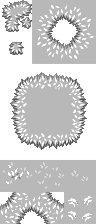
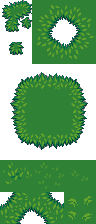
Try to colorize like the GIMP (using HSL)

diff --git a/test/colorize2.html b/test/colorize2.html
@@ -1,0 +1,130 @@
+<!DOCTYPE HTML>
+<html>
+  <head>
+    <title>Colorize Images Like GIMP</title>
+    <meta content="text/html;charset=utf-8" http-equiv="Content-Type">
+    <link rel="stylesheet" href="../styles.css">
+  </head>
+  <body>
+    <canvas id="canvas" width="600px" height="224px" style="float: left"></canvas>
+    <input id="color" type="color" value="#0000ff">
+  
+    <script type="module">
+
+      import { ImageResource } from '../src/ImageResource.js';
+
+      const grass = new ImageResource('../images/terrain/grass.png');
+
+      grass.ready.then(() => {
+        const image = grass.image;
+
+        const canvas = document.getElementById('canvas');
+        canvas.width = image.width;
+        canvas.height = image.height;
+        const context = canvas.getContext('2d');
+        context.drawImage(image, 0, 0);
+
+        
+        // const pixelBuffer = new Uint32Array(imageData.data.buffer);
+
+        // const counts = new Map();
+        // pixelBuffer.forEach(color => counts.set(color, (counts.get(color) ?? 0) + 1));
+
+        // const sorted = Array.from(counts.keys()).sort((a, b) => counts.get(b) - counts.get(a));
+        // const mostCommon = sorted.find(color => color !== 0);
+
+        // pixelBuffer.forEach((color, index, array) => {
+        //   if (color == mostCommon) {
+        //     array[index] = 0xFFFF0000;
+        //   }
+        // });
+        // context.putImageData(imageData, 0, 0);
+
+        
+
+        // let [r, g, b] = hexToRgb('#ff1111');
+        // let [h, s, l] = rgb2hsl(r, g, b);
+
+        colorize(canvas, 0.5 * 360, 0.5, 0);
+
+        // document.getElementById('color').value = intToHex(mostCommon);
+
+        // const [r, g, b] = intToRgbArray(mostCommon);
+
+        // const hsl = rgb2hsl(r, g, b);
+        // const rgb = hsl2rgb(hsl[0], hsl[1], hsl[2])
+        
+      });
+
+      function colorize(canvas, h, s, l) {
+        const ctx = canvas.getContext('2d');
+        const imageData = ctx.getImageData(0, 0, canvas.width, canvas.height);
+        const data = imageData.data;
+
+        const LUM_RED =   0.22248840;
+        const LUM_GREEN = 0.71690369;
+        const LUM_BLUE =  0.06060791;
+
+        let index = 0;
+        for (let r = 0; r < canvas.height; r ++) {
+          for (let c = 0; c < canvas.width; c ++) {
+            let r = data[index] / 255;
+            let g = data[index + 1] / 255;
+            let b = data[index + 2] / 255;
+            let a = data[index + 3];
+
+            let lum = r * LUM_RED + g * LUM_GREEN + b * LUM_BLUE;
+
+            // if (lightness > 0) {
+            //   lum = lum * (1.0 - lightness);
+            //   lum += 1.0 - (1.0 - lightness);
+            // }
+            // else if (lightness < 0) {
+            //   lum = lum * (lightness + 1.0);
+            // }
+
+            //const l = lum;
+
+            [r, g, b] = hsl2rgb(h, s, lum);
+
+            data[index]   = r * 255;
+            data[index+1] = g * 255;
+            data[index+2] = b * 255;
+            data[index+3] = a;
+
+            index += 4;
+          }
+        }
+
+        ctx.putImageData(imageData, 0, 0);
+      }
+
+      function intToRgb(i) { return [i, i >> 8, i >> 16].map(e => (e & 0xFF)); }
+
+      function hexToRgb(hex) {
+        return [ hex.slice(1,3), hex.slice(3,5), hex.slice(5,7) ].map(e => parseInt(e, 16));
+      }
+
+      function rgbToHex(r, g, b) {
+        return `#${[r, g, b].map(e => e.toString(16).padStart(2, 0)).join('')}`;
+      }
+
+      // See: https://stackoverflow.com/questions/36721830/convert-hsl-to-rgb-and-hex/54014428#54014428
+      function hsl2rgb(h,s,l) 
+      {
+        // input: h in [0,360] and s,v in [0,1] - output: r,g,b in [0,1]
+        let a= s*Math.min(l,1-l);
+        let f= (n,k=(n+h/30)%12) => l - a*Math.max(Math.min(k-3,9-k,1),-1);
+        return [f(0), f(8), f(4)];
+      }
+
+      
+      function rgb2hsl(r,g,b) {
+        // in: r,g,b in [0,1], out: h in [0,360) and s,l in [0,1]
+        let v=Math.max(r,g,b), c=v-Math.min(r,g,b), f=(1-Math.abs(v+v-c-1)); 
+        let h= c && ((v==r) ? (g-b)/c : ((v==g) ? 2+(b-r)/c : 4+(r-g)/c)); 
+        return [60*(h<0?h+6:h), f ? c/f : 0, (v+v-c)/2];
+      }
+    </script>
+  </body>
+</html>
